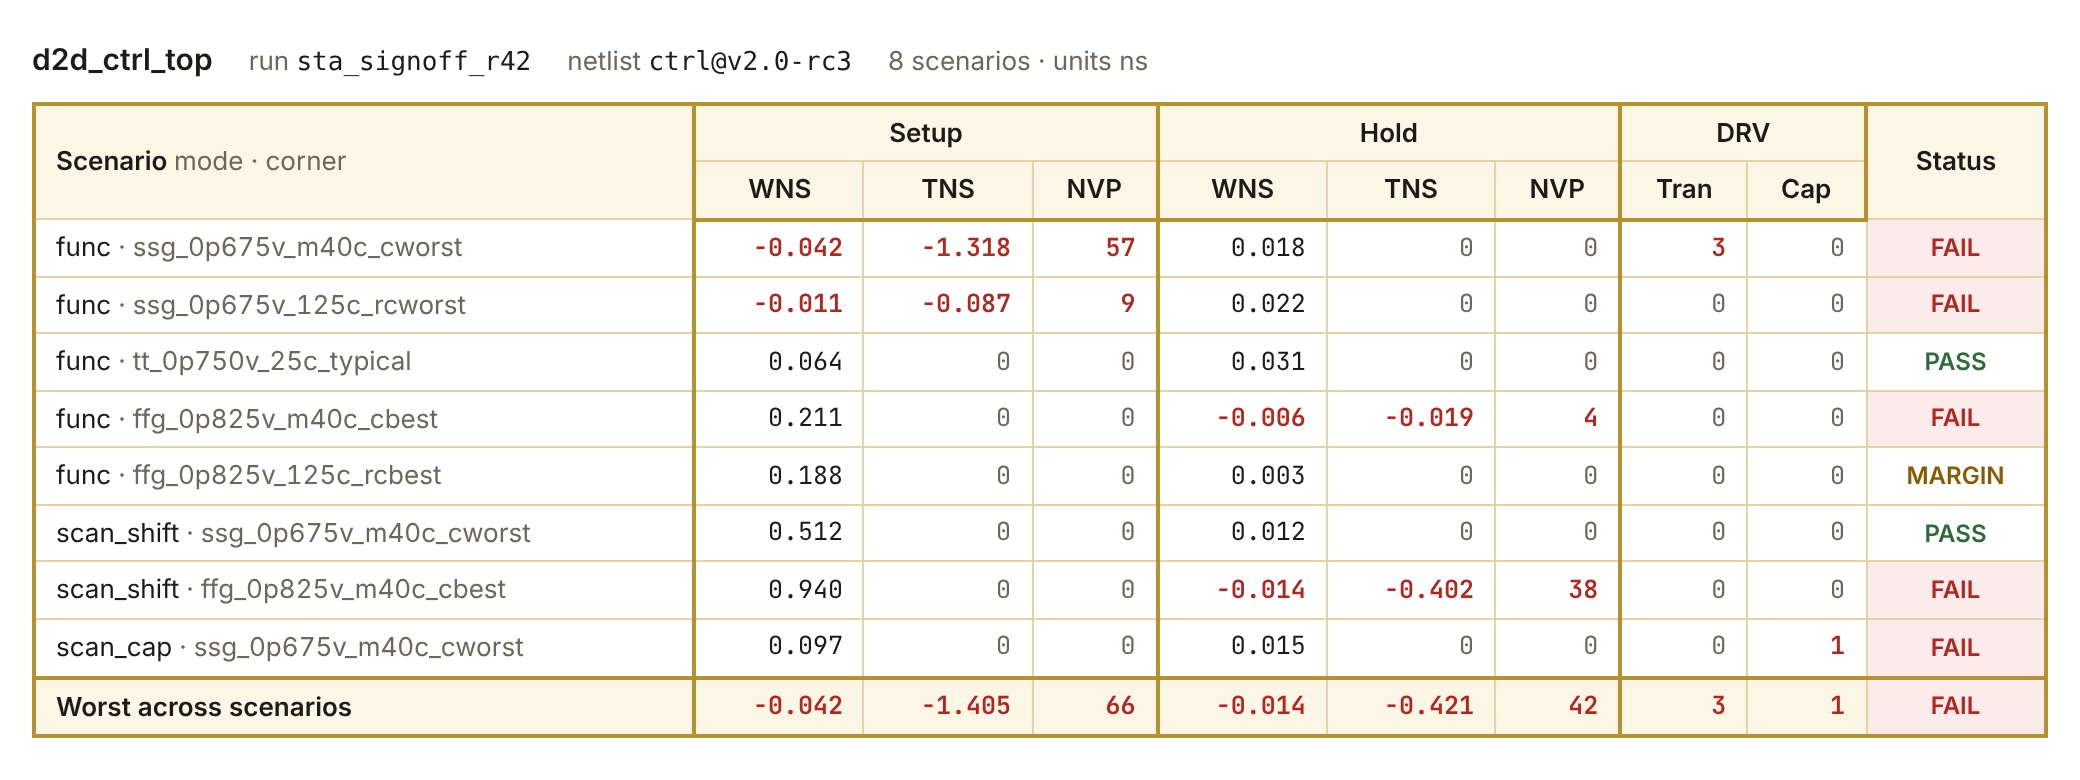
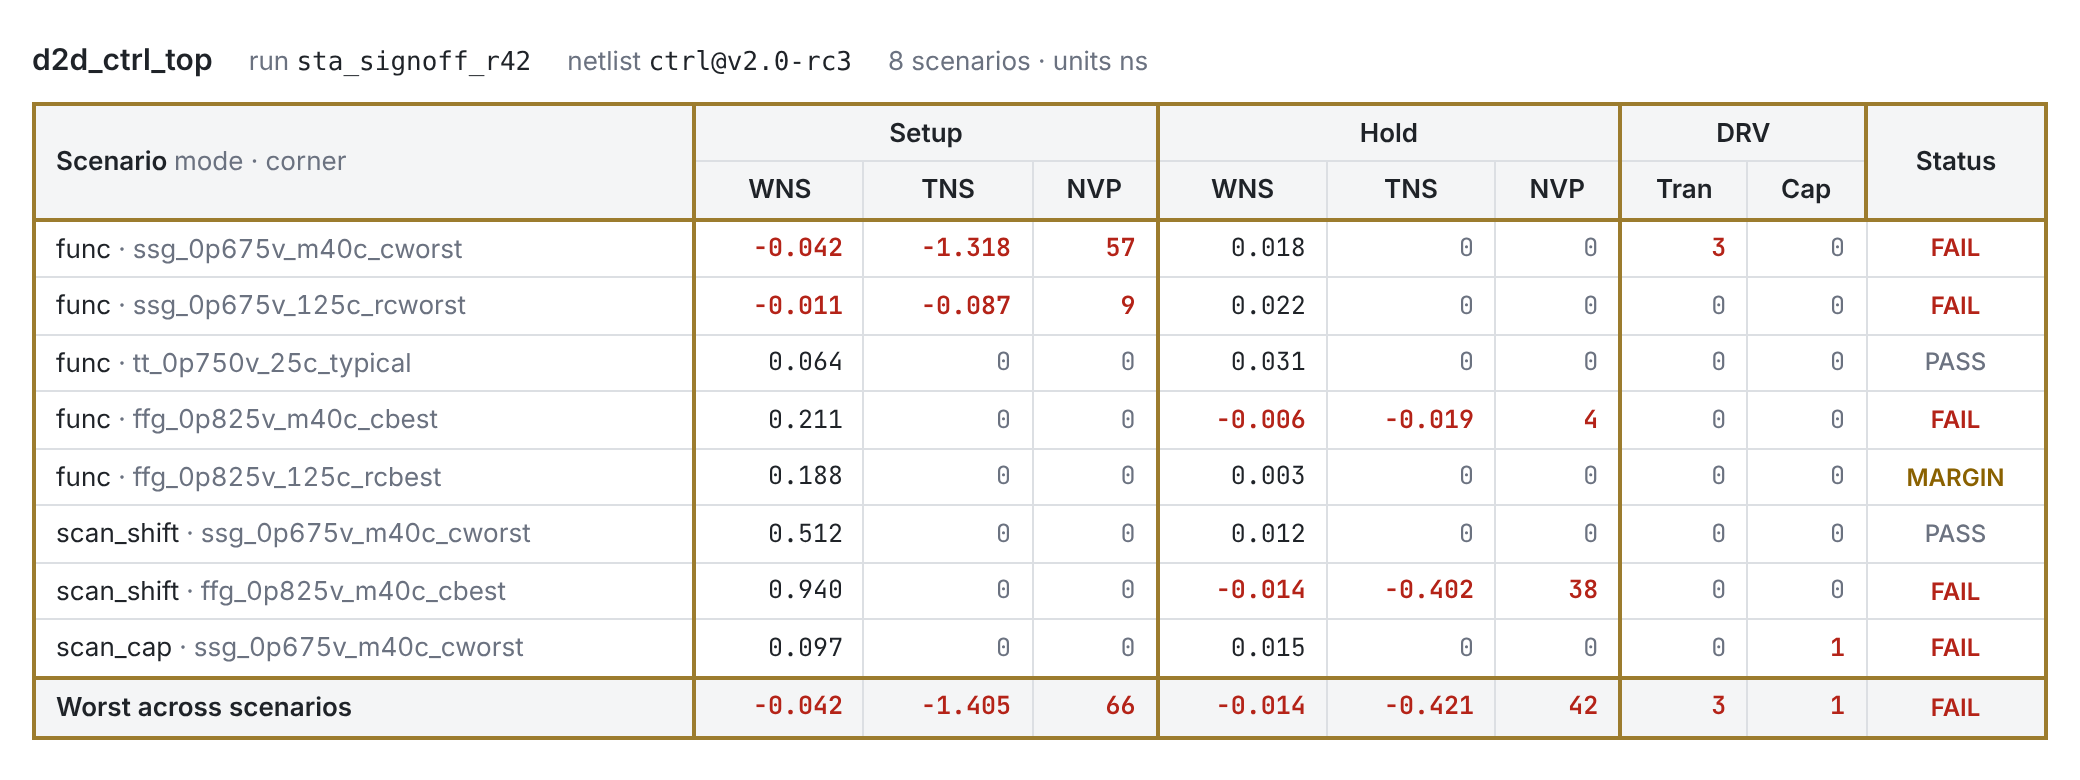
STA summary theme: neutral palette, gold for structure only
Claude-Session: https://claude.ai/code/session_015j4tcepD1zSYAfbtxNHfeF

diff --git a/docs/design/sta_summary_example.html b/docs/design/sta_summary_example.html
@@ -7,17 +7,18 @@
 <link rel="stylesheet" href="https://fonts.googleapis.com/css2?family=Inter:wght@400;500;600&family=JetBrains+Mono:wght@400;600&display=swap">
 <style>
   :root {
-    --bg: #ffffff; --bg-head: #fbf6e6; --bg-hover: #fdf9ee;
-    --ink: #1c1b18; --ink-muted: #6b675c;
-    --gold: #b8912f; --gold-soft: #e4d3a1;
-    --fail: #b3261e; --fail-bg: #fbeceb; --warn: #8a5a00; --pass: #2e6b3a;
+    --bg: #ffffff; --bg-head: #f4f5f6; --bg-hover: #f9fafb;
+    --ink: #1f2328; --ink-muted: #6b7280;
+    --gold: #9c7c2e;  /* structural lines only */
+    --grid: #dcdfe3;  /* inner cell grid */
+    --fail: #b42318; --warn: #8a6100; --pass: #6b7280;
   }
   @media (prefers-color-scheme: dark) {
     :root:not([data-theme="light"]) {
-      --bg: #17160f; --bg-head: #221f14; --bg-hover: #2a2618;
-      --ink: #f2efe6; --ink-muted: #a39e8f;
-      --gold: #d4ad4a; --gold-soft: #4a4026;
-      --fail: #f08a80; --fail-bg: #3a1d1a; --warn: #e0b45c; --pass: #8fcf98;
+      --bg: #16181b; --bg-head: #1f2226; --bg-hover: #1b1e21;
+      --ink: #e6e8eb; --ink-muted: #9aa1ab;
+      --gold: #b8954a; --grid: #33373d;
+      --fail: #f07167; --warn: #d9a441; --pass: #9aa1ab;
     }
   }
   * { box-sizing: border-box; }
@@ -30,10 +31,11 @@
   .meta code { color: var(--ink); }
   .wrap { overflow-x: auto; }
   table { border-collapse: collapse; width: 100%; border: 2px solid var(--gold); }
-  th, td { padding: 5px 10px; border: 1px solid var(--gold-soft); white-space: nowrap; }
+  th, td { padding: 5px 10px; border: 1px solid var(--grid); white-space: nowrap; }
   thead th { background: var(--bg-head); font-weight: 600; text-align: center;
              border-bottom: 2px solid var(--gold); }
-  thead tr:first-child th { border-bottom: 1px solid var(--gold-soft); }
+  thead tr:first-child th { border-bottom: 1px solid var(--grid); }
+  thead tr:first-child th[rowspan] { border-bottom: 2px solid var(--gold); }
   .grp { border-left: 2px solid var(--gold); }
   td { text-align: right; font: 400 12.5px/1.35 "JetBrains Mono", "SF Mono", Menlo, monospace;
        font-variant-numeric: tabular-nums; }
@@ -42,9 +44,9 @@
   .neg { color: var(--fail); font-weight: 600; }
   .zero { color: var(--ink-muted); }
   td.st { text-align: center; font-family: Inter, system-ui, sans-serif; font-weight: 600; font-size: 12px; }
-  .st.fail { color: var(--fail); background: var(--fail-bg); }
+  .st.fail { color: var(--fail); }
   .st.warn { color: var(--warn); }
-  .st.pass { color: var(--pass); }
+  .st.pass { color: var(--pass); font-weight: 500; }
   tbody tr:hover td { background: var(--bg-hover); }
   tr.worst td { border-top: 2px solid var(--gold); font-weight: 600; background: var(--bg-head); }
 </style>

diff --git a/docs/design/sta_summary_theme.md b/docs/design/sta_summary_theme.md
@@ -1,4 +1,4 @@
-# STA Summary Table — Theme Spec ("Gold ledger")
+# STA Summary Table — Theme Spec ("Gold ledger", neutral)
 
 Purpose: one compact table that summarizes STA timing reports across scenarios, so a
 reviewer can see in seconds what fails, where, and by how much. Everything else is noise.
@@ -36,31 +36,33 @@ Reference render: `sta_summary_example.html` / `sta_summary_example.png`.
 
 ## 3. Color tokens
 
+Neutral greys carry the page; gold is used **only** for structural lines; red only for violations.
+
 ```css
 :root {
-  --bg: #ffffff;        --bg-head: #fbf6e6;   --bg-hover: #fdf9ee;
-  --ink: #1c1b18;       --ink-muted: #6b675c;
-  --gold: #b8912f;      /* outer border, group dividers, header underline */
-  --gold-soft: #e4d3a1; /* inner cell grid */
-  --fail: #b3261e;  --fail-bg: #fbeceb;  --warn: #8a5a00;  --pass: #2e6b3a;
+  --bg: #ffffff;       --bg-head: #f4f5f6;  --bg-hover: #f9fafb;
+  --ink: #1f2328;      --ink-muted: #6b7280;
+  --gold: #9c7c2e;     /* structural lines only */
+  --grid: #dcdfe3;     /* inner cell grid */
+  --fail: #b42318;     --warn: #8a6100;     --pass: #6b7280;
 }
 @media (prefers-color-scheme: dark) {
   :root:not([data-theme="light"]) {
-    --bg: #17160f; --bg-head: #221f14; --bg-hover: #2a2618;
-    --ink: #f2efe6; --ink-muted: #a39e8f;
-    --gold: #d4ad4a; --gold-soft: #4a4026;
-    --fail: #f08a80; --fail-bg: #3a1d1a; --warn: #e0b45c; --pass: #8fcf98;
+    --bg: #16181b; --bg-head: #1f2226; --bg-hover: #1b1e21;
+    --ink: #e6e8eb; --ink-muted: #9aa1ab;
+    --gold: #b8954a; --grid: #33373d;
+    --fail: #f07167; --warn: #d9a441; --pass: #9aa1ab;
   }
 }
 ```
 
 ## 4. Borders (the signature of this theme)
 
-- Outer table border: **2px `--gold`**.
-- Inner cell grid: **1px `--gold-soft`** (full grid, so values can be traced across).
-- Column-group dividers (before Setup, Hold, DRV, Status): **2px `--gold`**.
-- Header bottom: **2px `--gold`**. Worst row top: **2px `--gold`**.
-- No rounded corners, no shadows.
+- Gold lines (2px `--gold`): outer table border, column-group dividers (before Setup,
+  Hold, DRV, Status), header bottom (full width, including rowspan cells), worst-row top.
+- Everything else: 1px `--grid` neutral grey.
+- Keep gold at 2px. At 1px it ties with the grey grid in `border-collapse` and disappears.
+- No rounded corners, no shadows, no fills except `--bg-head` on header and worst row.
 
 ## 5. Cells
 
@@ -71,8 +73,9 @@ Reference render: `sta_summary_example.html` / `sta_summary_example.png`.
 - **Violation** (negative slack, NVP > 0, DRV > 0): `--fail`, weight 600.
 - **Zero counts / zero TNS**: `0` in `--ink-muted`, so non-zero values stand out.
 - Positive slack: plain `--ink`.
-- Status cell: centered, 600, uppercase word. FAIL = `--fail` on `--fail-bg`;
-  MARGIN = `--warn`; PASS = `--pass`. The word carries the meaning, so color is never the only cue.
+- Status cell: centered uppercase word, text color only (no cell fill).
+  FAIL = `--fail` 600; MARGIN = `--warn` 600; PASS = `--pass` (grey) 500.
+  PASS is deliberately quiet; the eye should land on what needs action.
 - Worst row: weight 600, background `--bg-head`.
 - Row hover: `--bg-hover`.
 
@@ -86,7 +89,7 @@ Reference render: `sta_summary_example.html` / `sta_summary_example.png`.
 
 - No title block, footer, legend, logo, or generation timestamp.
 - No zebra striping, gradients, icons, or emoji.
-- No color on positive values, and no more than one fill color (`--fail-bg`).
+- No color on positive values or PASS; no colored cell fills; no green.
 
 ## 8. Checklist
 
